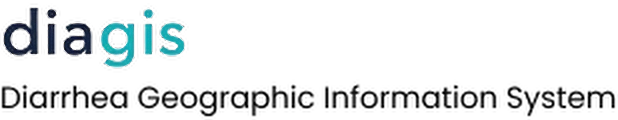
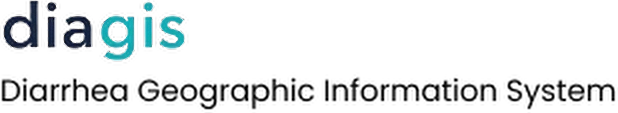
s

Changed region(s): [[0.0, 0.6903, 1.0, 0.9823], [0.0, 0.0, 0.3074, 0.5841]]

diff --git a/app/Views/layout/header.php b/app/Views/layout/header.php
@@ -277,15 +277,8 @@ body .nav-link{
     gap:10px;
 }
 
-.diare-logo{
-    width:52px !important;
-    height:52px !important;
-    object-fit:contain;
-    flex-shrink:0;
-}
-
 .diagis-text-logo{
-    width:250px !important;
+    width:150px !important;
     height:auto !important;
     object-fit:contain;
     display:block;
@@ -403,7 +396,7 @@ $showLoginPages = [
 
     <!-- NAMA DIGANTI GAMBAR -->
     <img src="<?= base_url('img/namaa.png') ?>" 
-         alt="Diagis Text"
+         alt="Diagis Text"  
          class="diagis-text-logo">
 
 <?php elseif ($isPneumoniaPage): ?>
